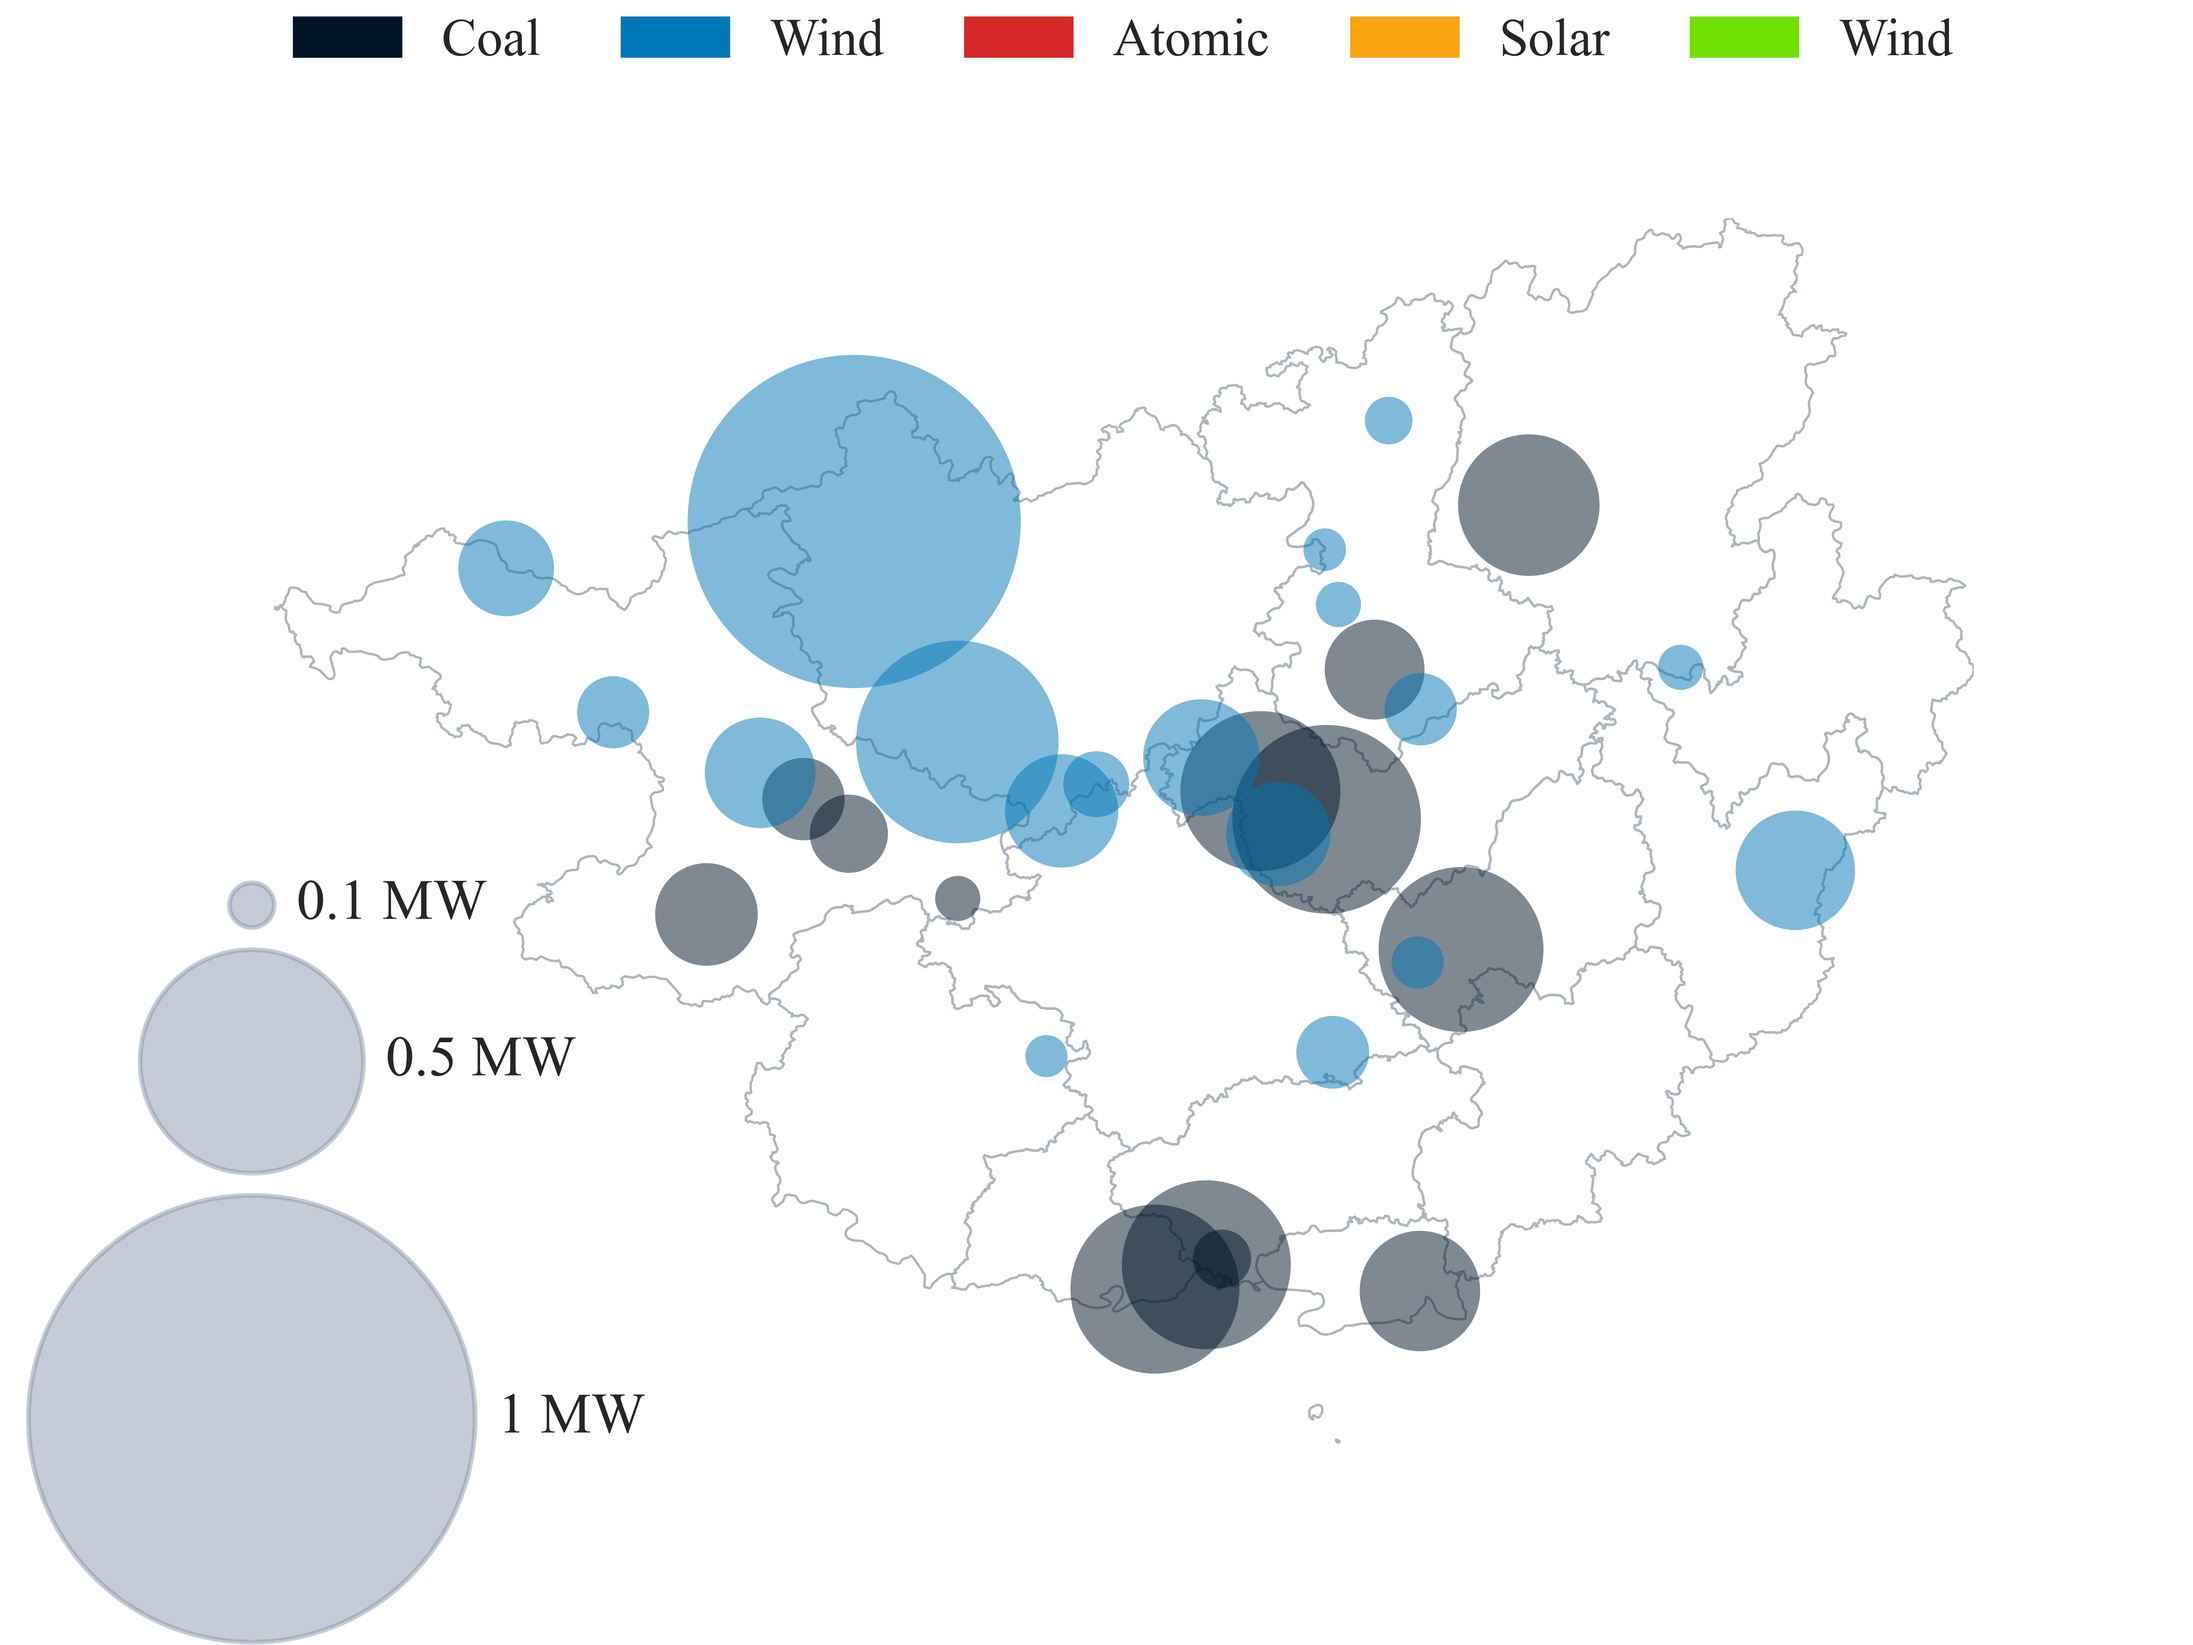
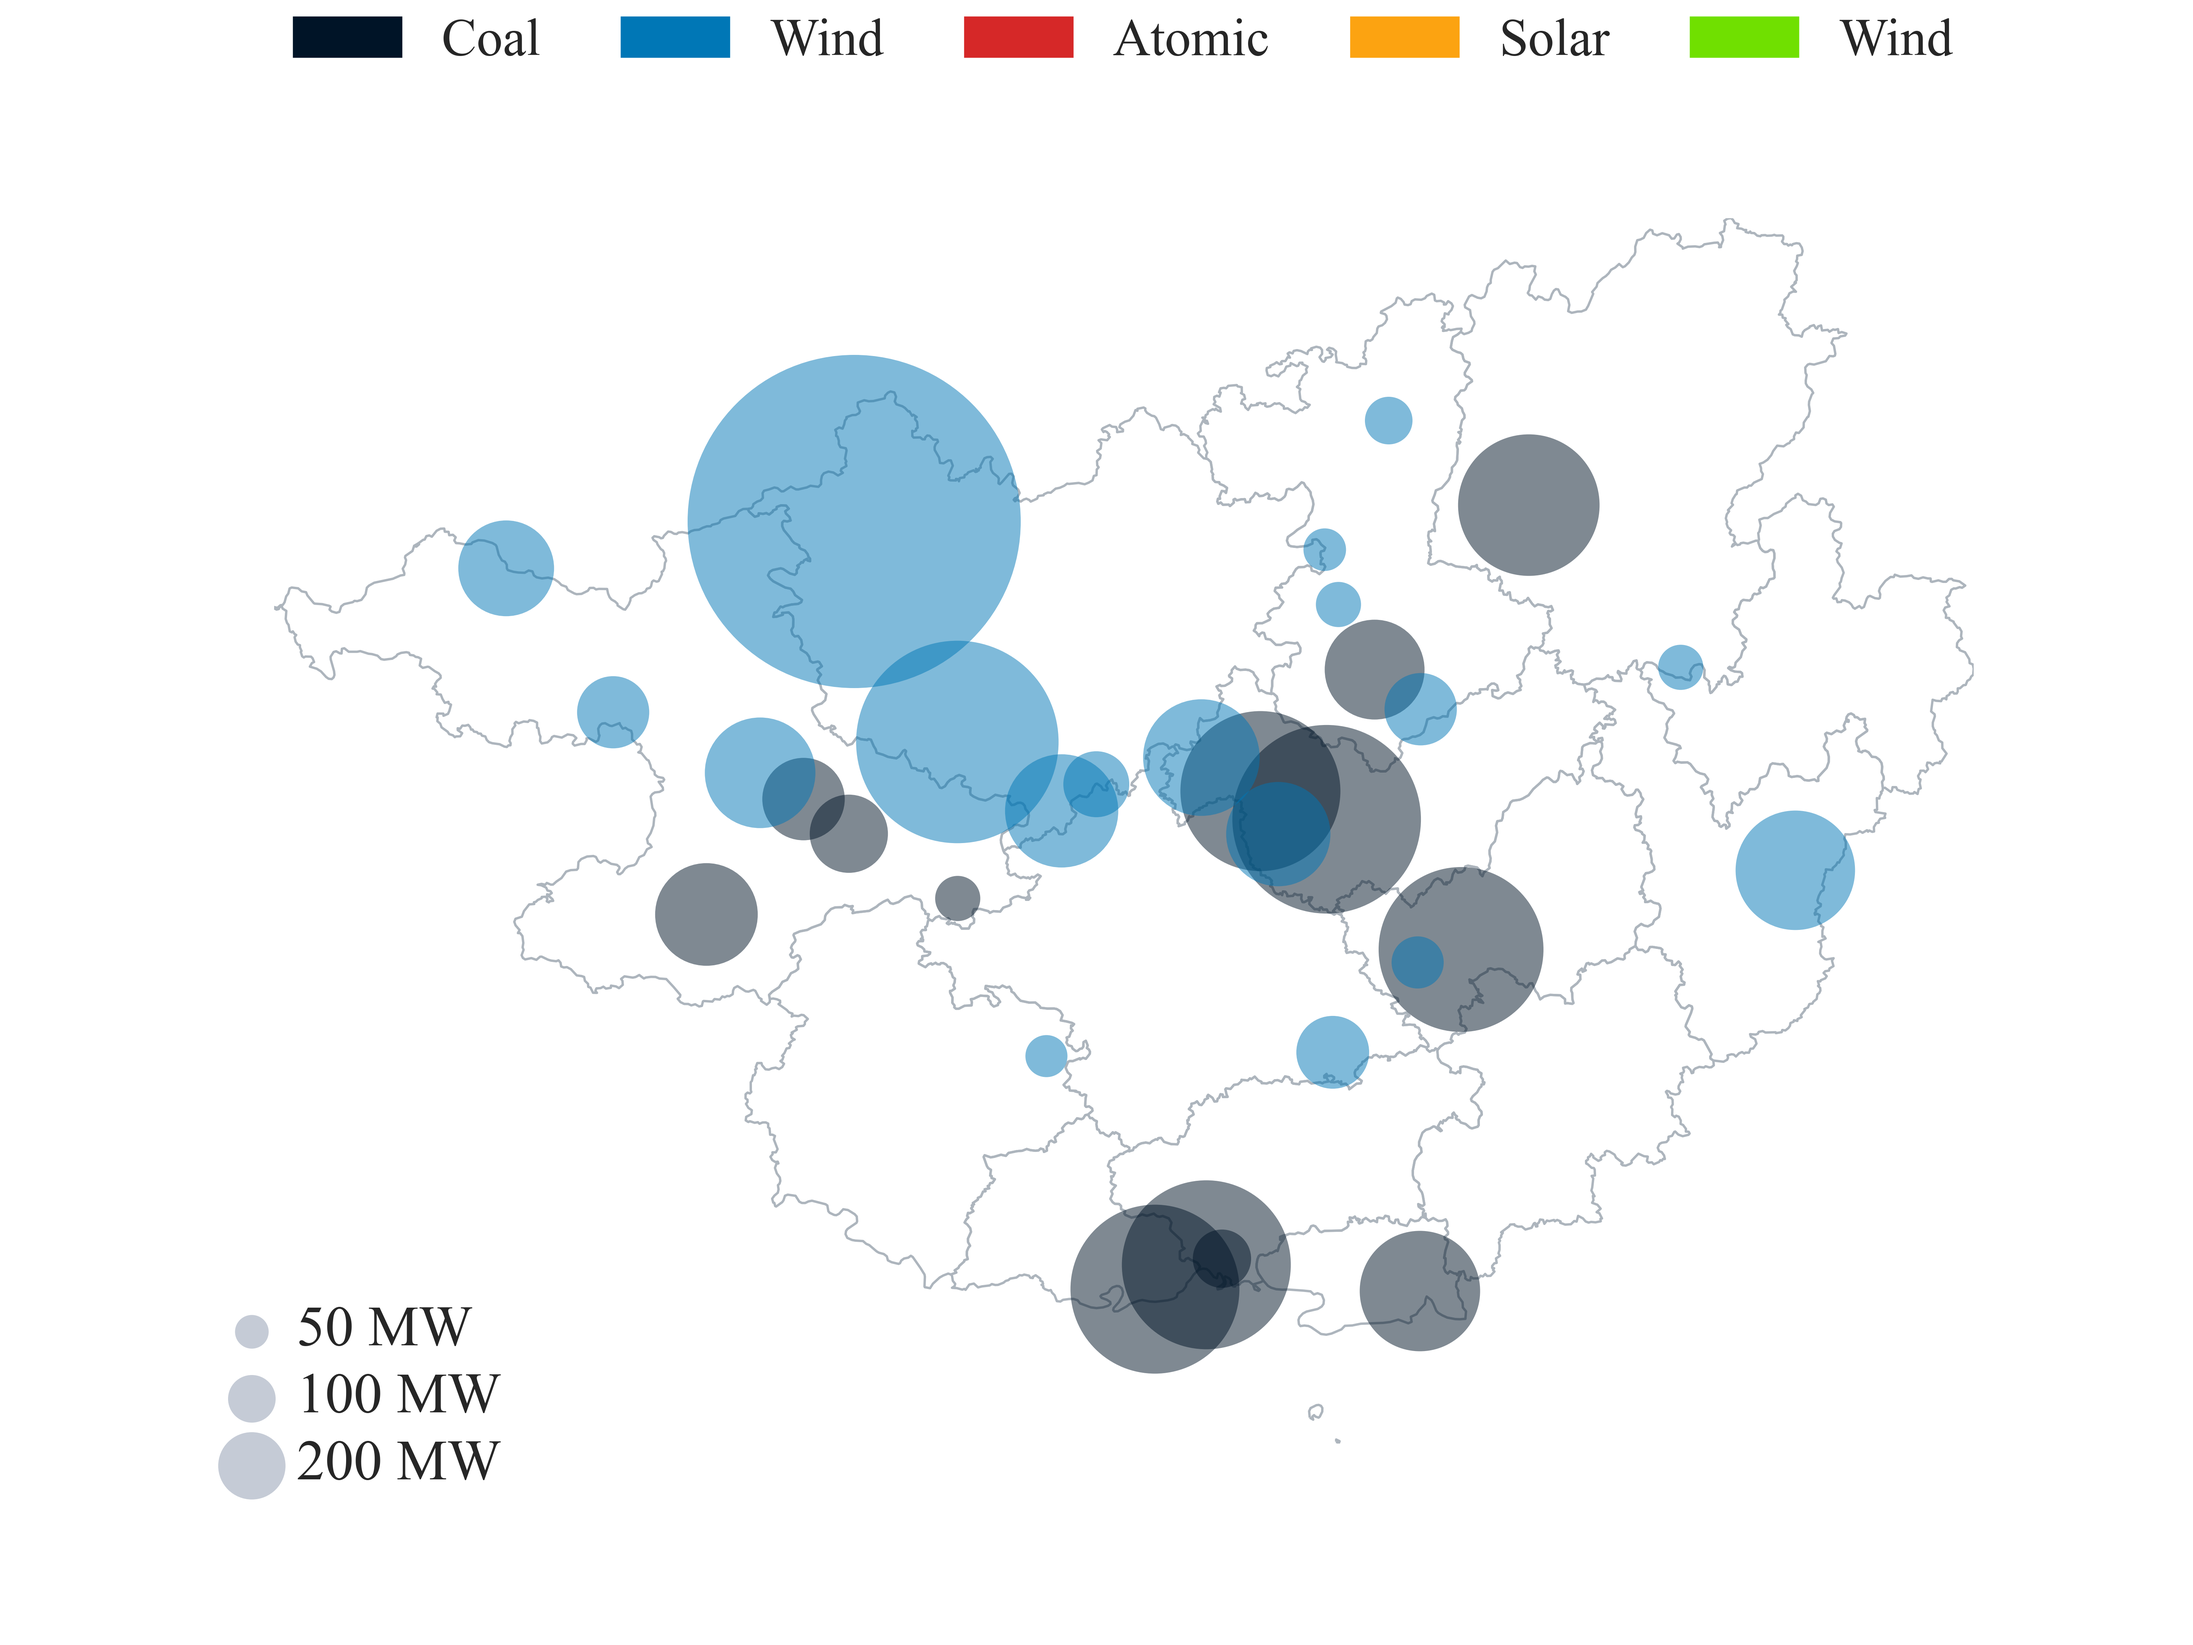
bug fix

Changed region(s): [[0.0, 0.5312, 0.2812, 1.0]]

diff --git a/power_plant_distribution.py b/power_plant_distribution.py
@@ -77,24 +77,18 @@ def visualization(gdf_list, provincial_gdf, year):
             ax.scatter(row.geometry.x, row.geometry.y, s=ratio*row["Capacity (MW)"], color=temp_color, linewidths=0, edgecolor=None, alpha=0.5)
 
     # Define legend for circle sizes
-    circle_sizes = [1, 0.5, 0.1]  # Define circle sizes for legend
-    legend_circle_labels = ['1 MW', '0.5 MW', '0.1 MW']  # Corresponding labels
+    circle_sizes = [200, 100, 50]  # Define circle sizes for legend
+    legend_circle_labels = ['200 MW', '100 MW', '50 MW']  # Corresponding labels
     
-    former_rad = 0
     for iter in range(len(circle_sizes)):
         rad = circle_sizes[iter]
         text = legend_circle_labels[iter]
         if iter == 0:
-            bound = bounds[1] + 0.11
+            bound = bounds[1] - 0.1
         else:
-            bound = bound + former_rad + rad + 0.1
-        circle = Circle((bounds[0]-0.1, bound), radius=rad*ratio, color="#8d99ae", alpha=0.5, clip_on=False)
-        ax.add_artist(circle)
-        ax.text(bounds[0] + rad, bound, text, verticalalignment='center', fontfamily='Times New Roman')
-        former_rad = rad
-        
-
-
+            bound = bound + 0.3
+        ax.scatter(bounds[0]-0.1, bound, s=ratio*rad, color="#8d99ae", linewidths=0, edgecolor=None, alpha=0.5, clip_on=False)
+        ax.text(bounds[0] + 0.1, bound, text, verticalalignment='center', fontfamily='Times New Roman')
 
     # Define custom legend handles and labels
     legend_handles = [
